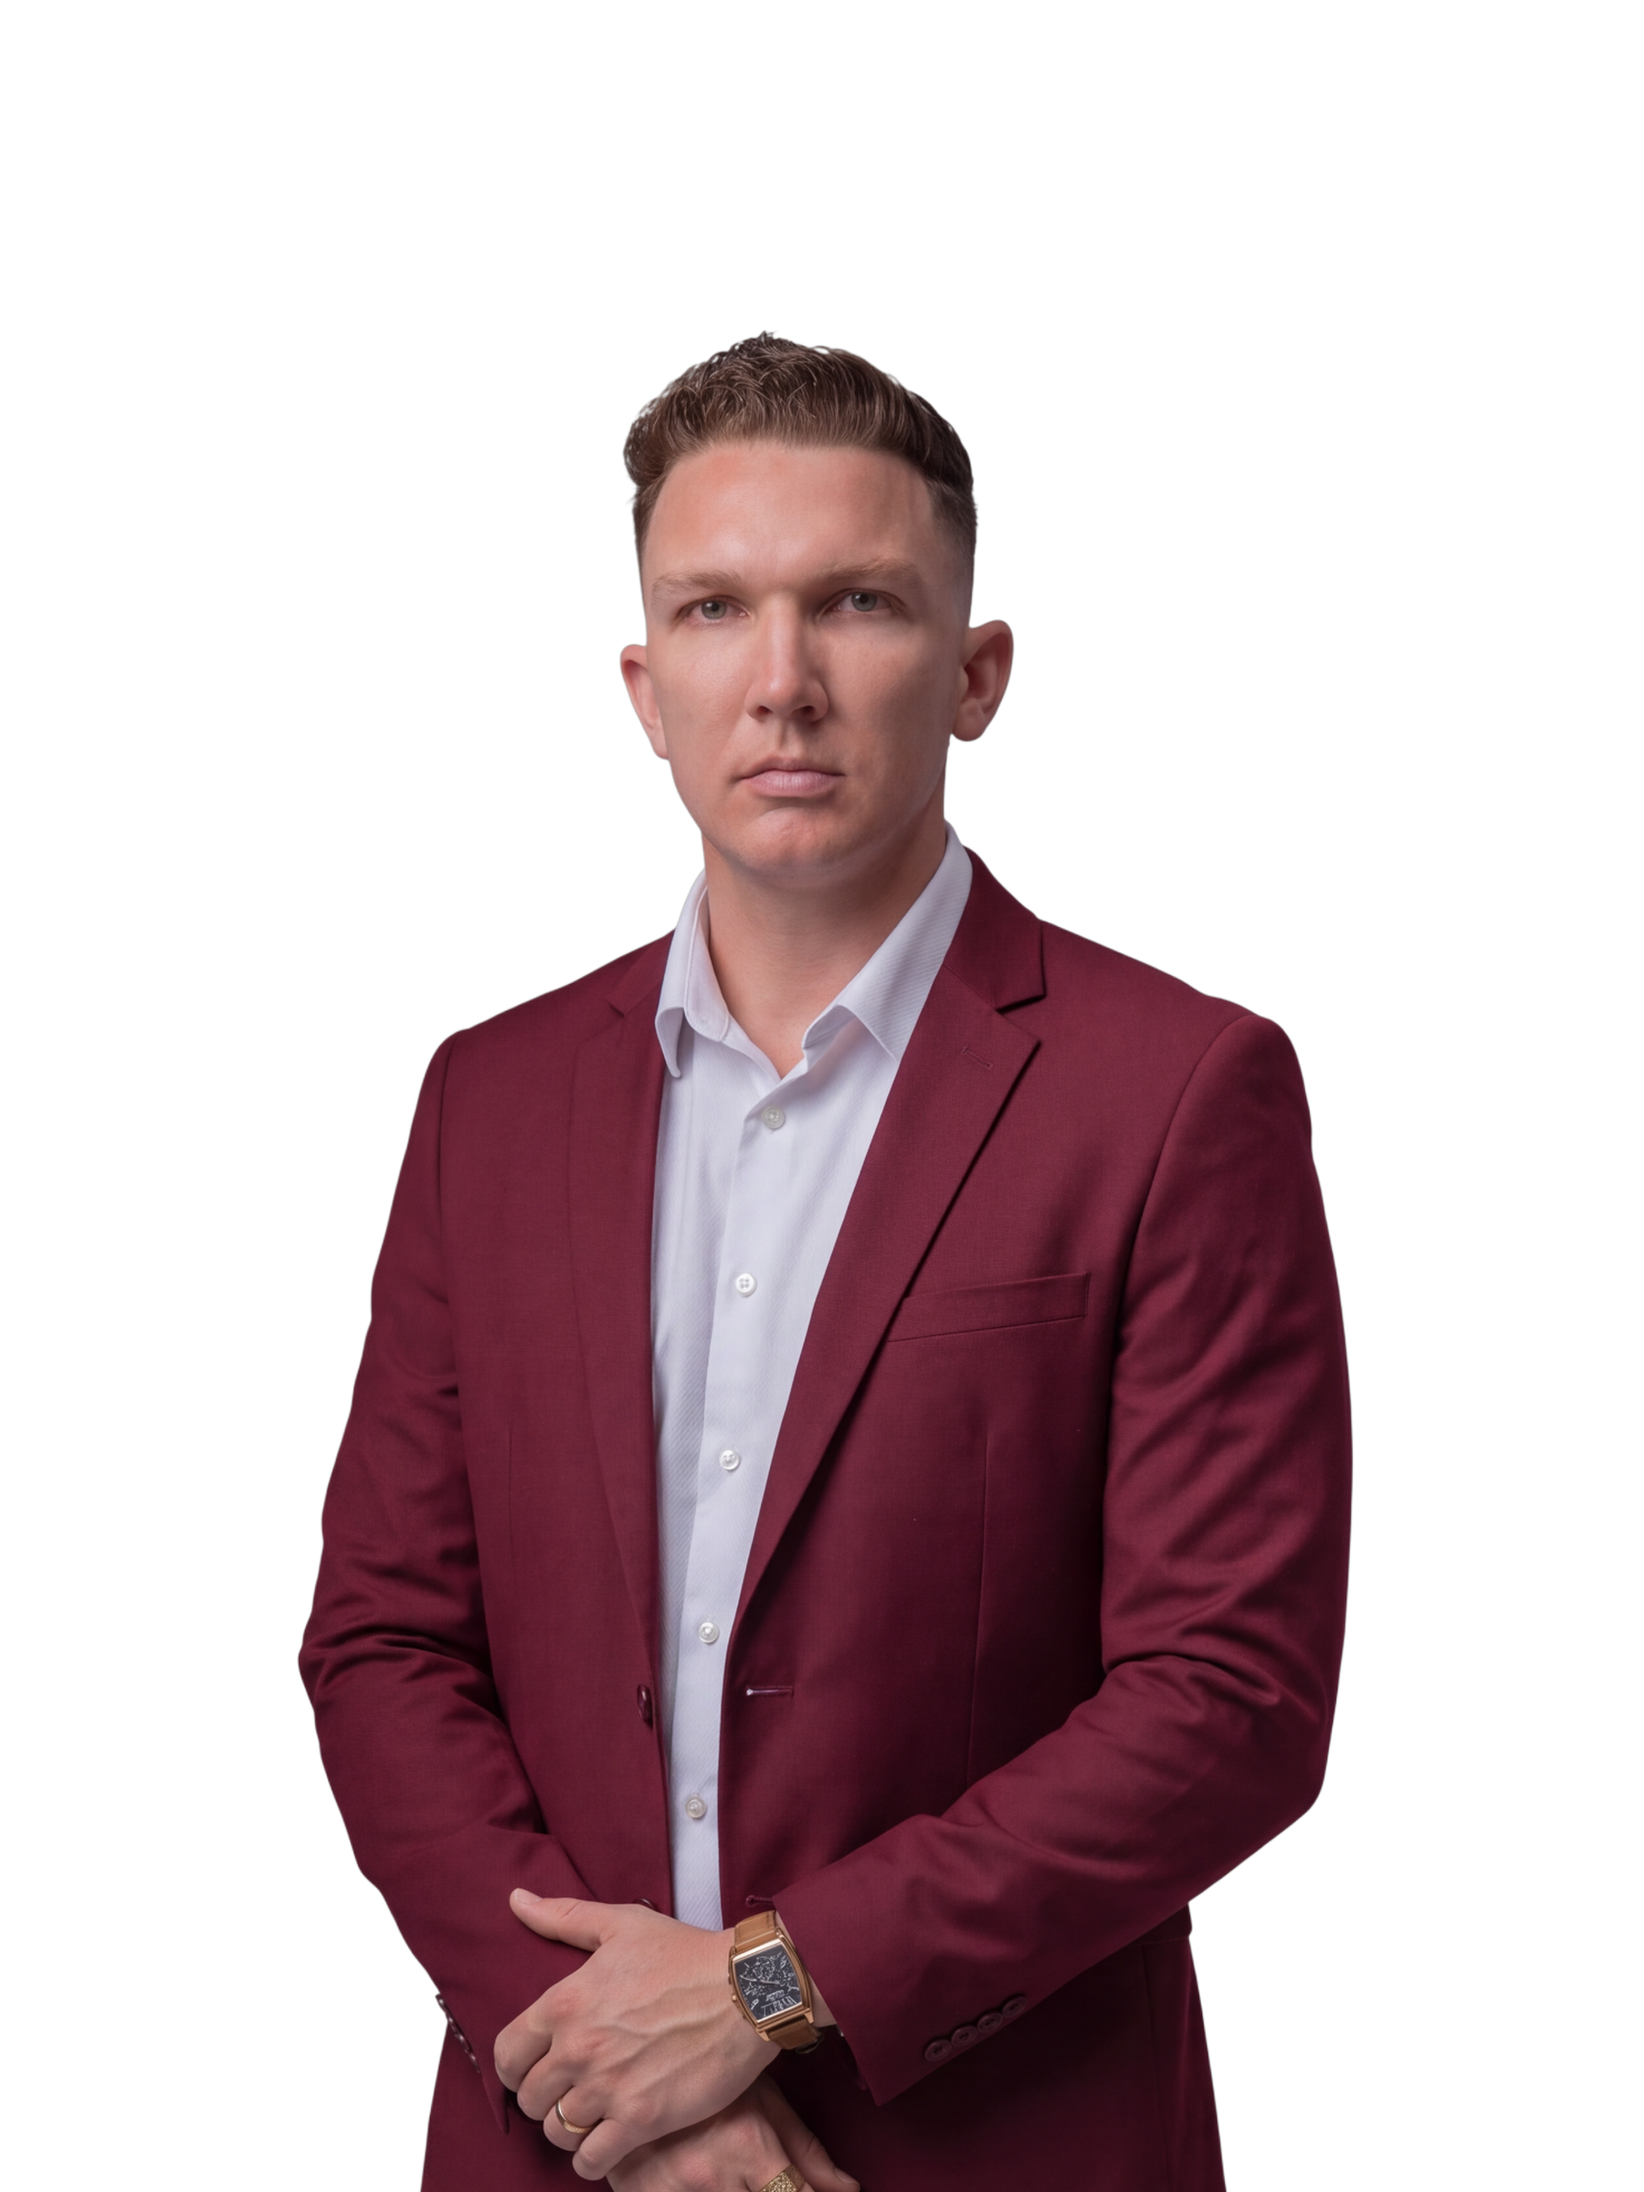
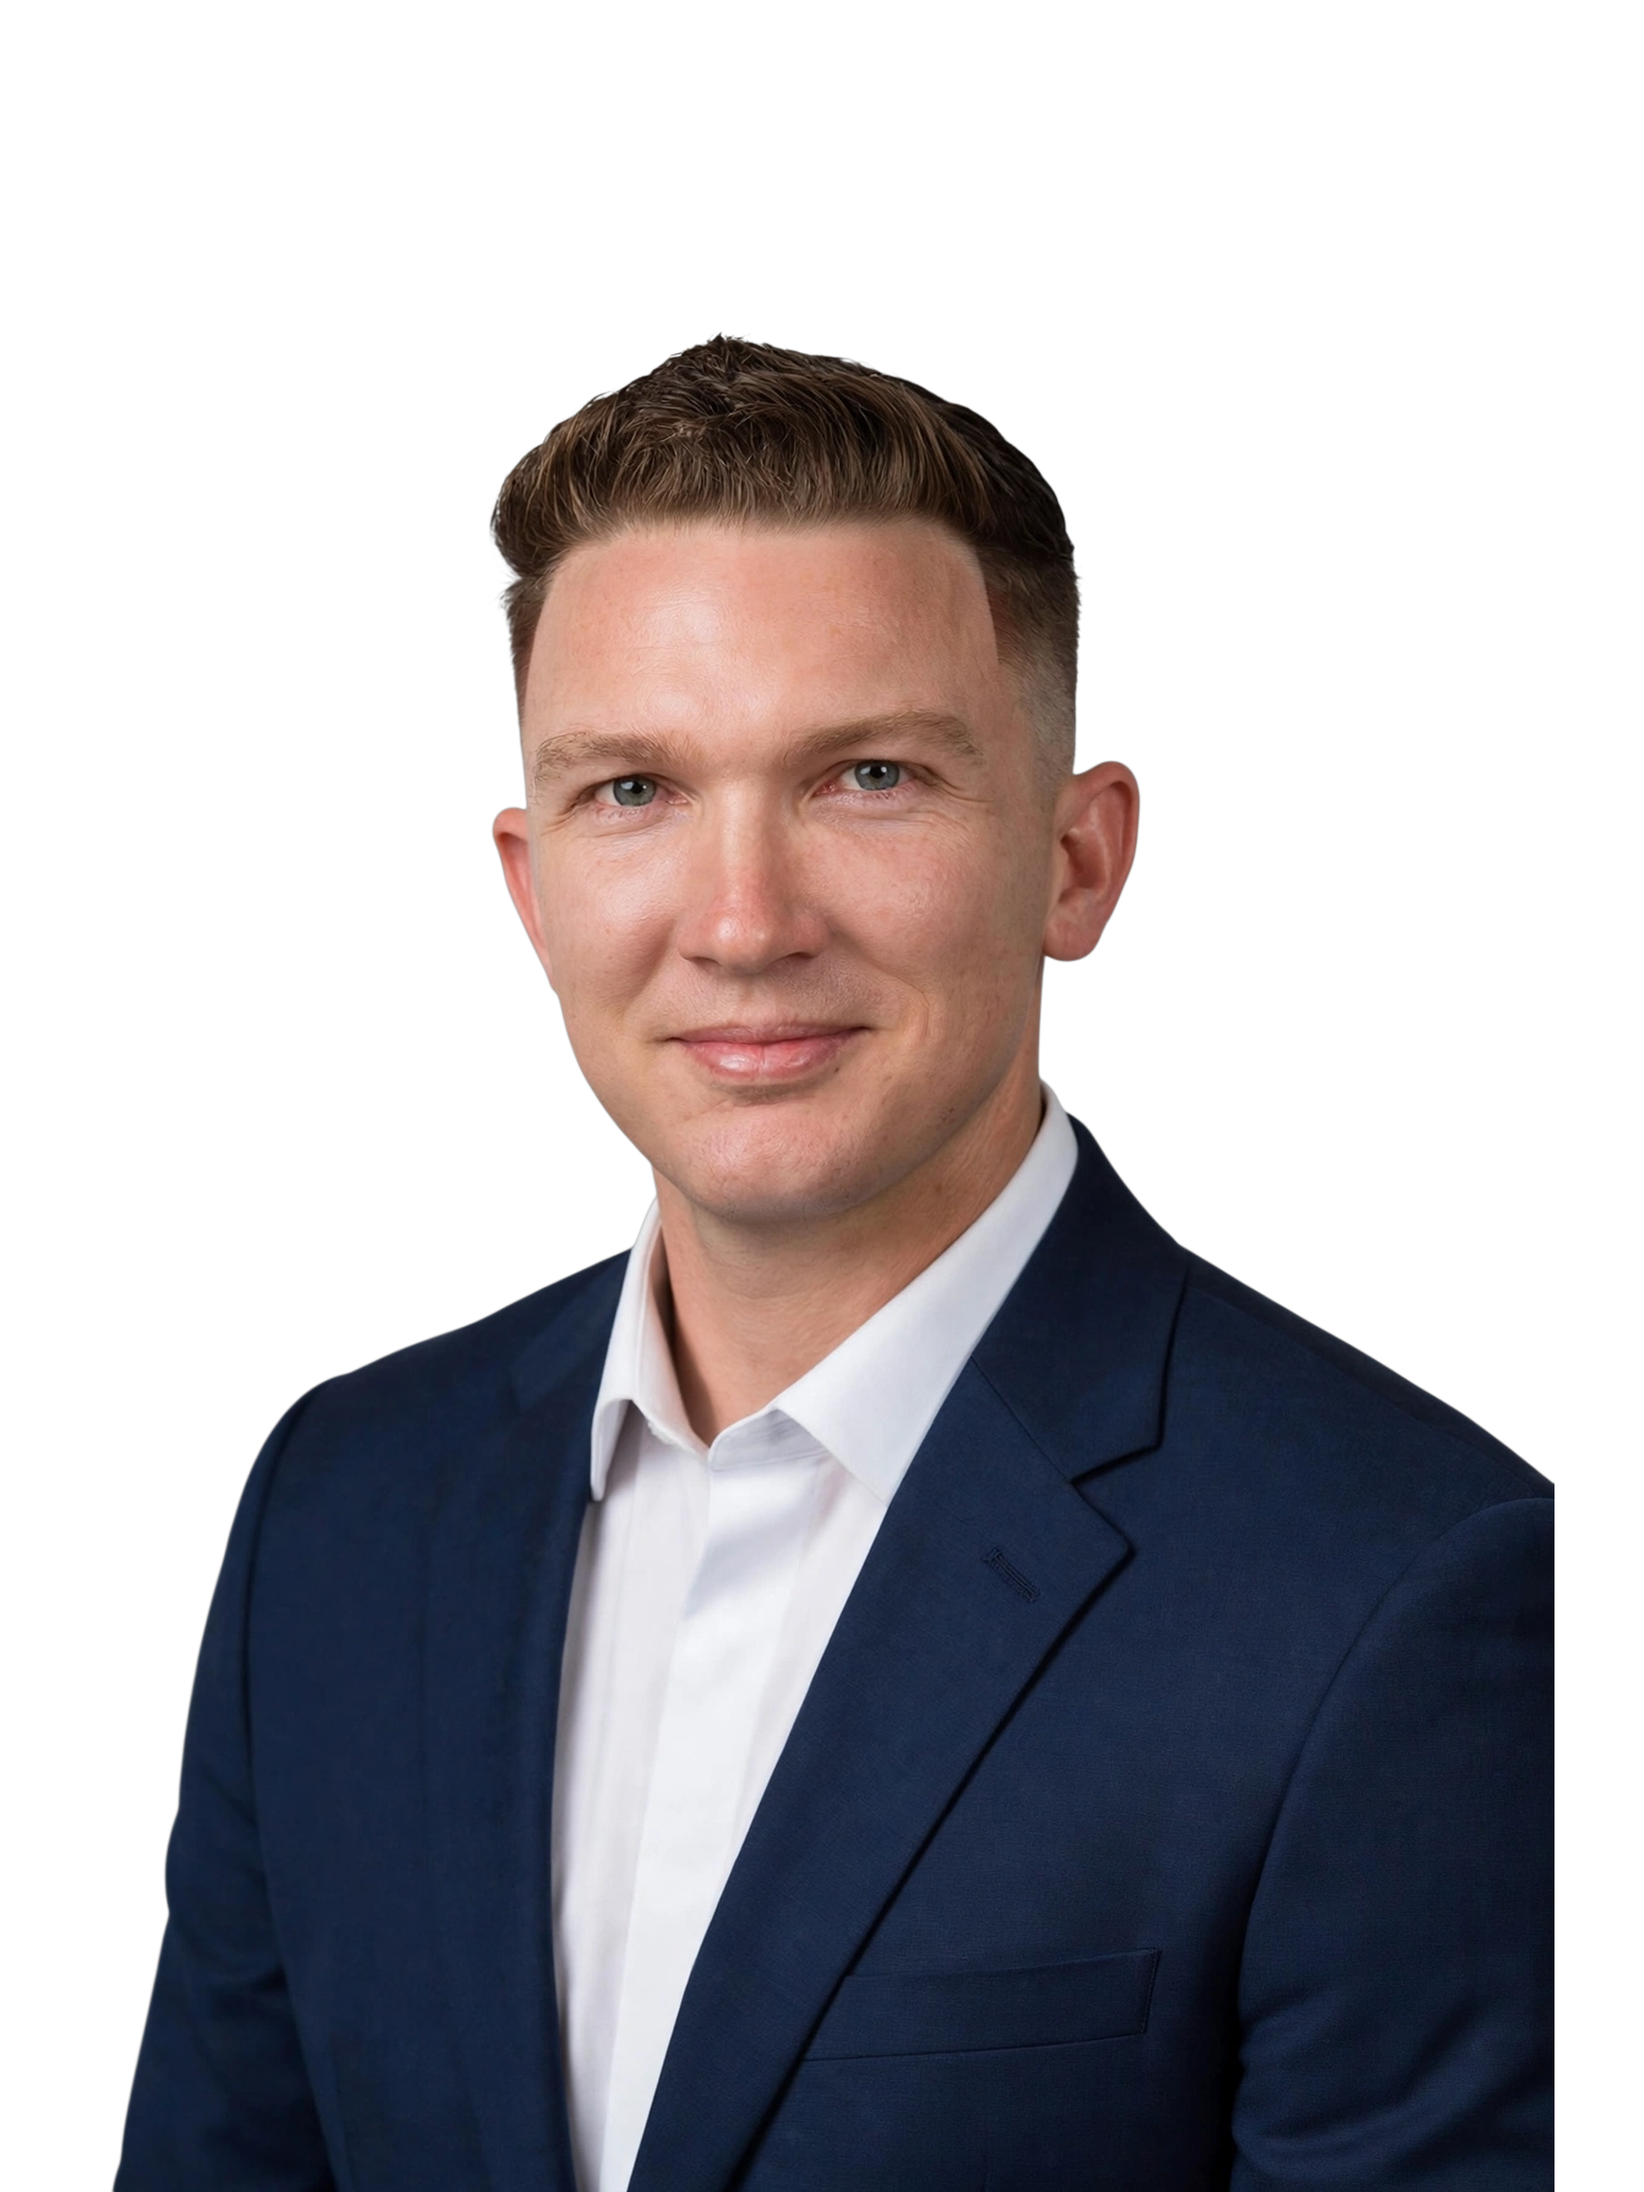
Update Javier Ferrer portrait photo

diff --git a/src/data/agentsData.ts b/src/data/agentsData.ts
@@ -167,8 +167,8 @@ export const AGENTS_DATA: Agent[] = [
     licenseNumber: "308704",
     phone: "(502) 281-1462",
     email: "Javferrer96@gmail.com",
-    photoUrl: "/assets/agents/javier-ferrer-rodriguez.jpg",
-    photoNobgUrl: "/assets/agents/javier-ferrer-rodriguez-nobg.png",
+    photoUrl: "/assets/agents/javier-ferrer-rodriguez.jpg?v=2",
+    photoNobgUrl: "/assets/agents/javier-ferrer-rodriguez-nobg.png?v=2",
     bio: "",
     specialties: [],
     languages: ["English", "Spanish"],
